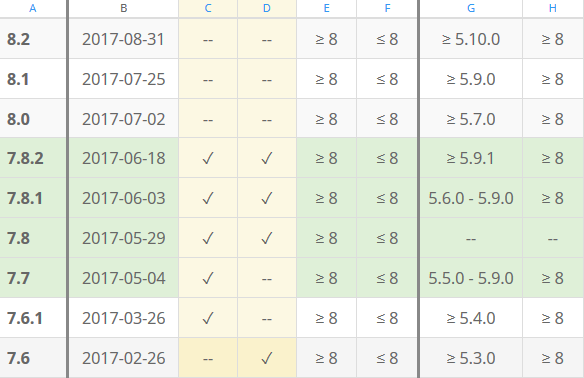
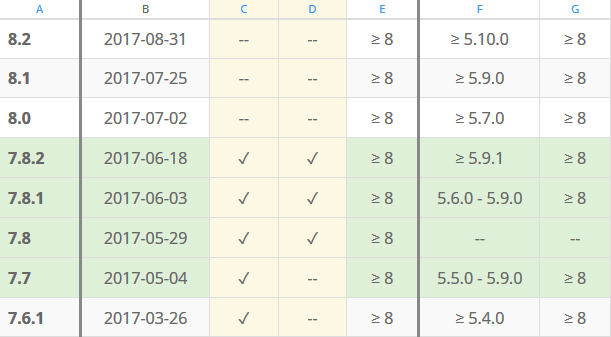
Update compatibility matrix up to Checkstyle 8.14

diff --git a/checkstyle-compatibility-matrix.html b/checkstyle-compatibility-matrix.html
@@ -20,7 +20,7 @@ to you. Should you notice an error, please create a pull request to correct it, 
 
 <p>You may <a href="{{ site.baseurl }}/2017/11/compatibility-matrix">apply highlighting</a> to parts of the table below.</p>
 
-<p><i>Latest major update: 2018-07-15</i></p>
+<p><i>Latest major update: 2018-11-14</i></p>
 </div>
 
 <table class="table table-striped table-header-rotated-jb table-hover csa-maxwide csa-hilite">
@@ -64,13 +64,13 @@ to you. Should you notice an error, please create a pull request to correct it, 
   </thead>
   <tbody>
     <tr>
-        <!--A--><th class="row-header">8.11</th>
-        <!--B--><td>2018-06-30</td>
-        <!--C--><td>--</td>
-        <!--D--><td>--</td>
+        <!--A--><th class="row-header">8.14</th>
+        <!--B--><td>2018-10-21</td>
+        <!--C--><td>✓</td>
+        <!--D--><td>✓</td>
         <!--E--><td>&nbsp;&nbsp;&ge;&nbsp;8&nbsp;&nbsp;</td>
-        <!--F--><td>&ge;&nbsp;5.20.0</td>
-        <!--G--><td>&ge;&nbsp;8</td>
+        <!--F--><td><span class="glyphicon glyphicon-hourglass" aria-hidden="true" title="upcoming"></span></td>
+        <!--G--><td><span class="glyphicon glyphicon-hourglass" aria-hidden="true" title="upcoming"></span></td>
         <!--H--><td><span class="glyphicon glyphicon-hourglass" aria-hidden="true" title="upcoming"></span></td>
         <!--I--><td>--</td>
         <!--J--><td>✓</td>
@@ -78,6 +78,60 @@ to you. Should you notice an error, please create a pull request to correct it, 
         <!--L--><td>✓</td>
         <!--M--><td>&ge;&nbsp;5.1.0</td>
         <!--N--><td><span class="glyphicon glyphicon-hourglass" aria-hidden="true" title="upcoming"></span></td>
+        <!--O--><td>--</td>
+        <!--P--><td>--</td>
+    </tr>
+    <tr>
+        <!--A--><th class="row-header">8.13</th>
+        <!--B--><td>2018-10-04</td>
+        <!--C--><td>✓</td>
+        <!--D--><td>✓</td>
+        <!--E--><td>&nbsp;&nbsp;&ge;&nbsp;8&nbsp;&nbsp;</td>
+        <!--F--><td>&ge;&nbsp;5.23.0</td>
+        <!--G--><td>&ge;&nbsp;8</td>
+        <!--H--><td><span class="glyphicon glyphicon-hourglass" aria-hidden="true" title="upcoming"></span></td>
+        <!--I--><td>--</td>
+        <!--J--><td>✓</td>
+        <!--K--><td>&nbsp;&ge;&nbsp;2.7&nbsp;</td>
+        <!--L--><td>✓</td>
+        <!--M--><td>&ge;&nbsp;5.1.0</td>
+        <!--N--><td>--</td>
+        <!--O--><td>--</td>
+        <!--P--><td>--</td>
+    </tr>
+    <tr>
+        <!--A--><th class="row-header">8.12</th>
+        <!--B--><td>2018-08-04</td>
+        <!--C--><td>✓</td>
+        <!--D--><td>✓</td>
+        <!--E--><td>&nbsp;&nbsp;&ge;&nbsp;8&nbsp;&nbsp;</td>
+        <!--F--><td>&ge;&nbsp;5.22.0</td>
+        <!--G--><td>&ge;&nbsp;8</td>
+        <!--H--><td>8.12.0</td>
+        <!--I--><td>--</td>
+        <!--J--><td>✓</td>
+        <!--K--><td>&nbsp;&ge;&nbsp;2.7&nbsp;</td>
+        <!--L--><td>5.0.0</td>
+        <!--M--><td>&ge;&nbsp;5.1.0</td>
+        <!--N--><td>1.32.0</td>
+        <!--O--><td>--</td>
+        <!--P--><td>--</td>
+    </tr>
+    <tr>
+        <!--A--><th class="row-header">8.11</th>
+        <!--B--><td>2018-06-30</td>
+        <!--C--><td>--</td>
+        <!--D--><td>--</td>
+        <!--E--><td>&nbsp;&nbsp;&ge;&nbsp;8&nbsp;&nbsp;</td>
+        <!--F--><td>&ge;&nbsp;5.20.0</td>
+        <!--G--><td>&ge;&nbsp;8</td>
+        <!--H--><td>8.11.0</td>
+        <!--I--><td>--</td>
+        <!--J--><td>✓</td>
+        <!--K--><td>&nbsp;&ge;&nbsp;2.7&nbsp;</td>
+        <!--L--><td>✓</td>
+        <!--M--><td>&ge;&nbsp;5.1.0</td>
+        <!--N--><td>1.31.0</td>
         <!--O--><td>4.11</td>
         <!--P--><td>&ge;&nbsp;5.6.6</td>
     </tr>
@@ -89,7 +143,7 @@ to you. Should you notice an error, please create a pull request to correct it, 
         <!--E--><td>&nbsp;&nbsp;&ge;&nbsp;8&nbsp;&nbsp;</td>
         <!--F--><td>&ge;&nbsp;5.20.0</td>
         <!--G--><td>&ge;&nbsp;8</td>
-        <!--H--><td>--</td>
+        <!--H--><td>8.10.1</td>
         <!--I--><td>--</td>
         <!--J--><td>✓</td>
         <!--K--><td>&nbsp;&ge;&nbsp;2.7&nbsp;</td>
@@ -579,7 +633,7 @@ to you. Should you notice an error, please create a pull request to correct it, 
         <!--I--><td>--</td>
         <!--J--><td>✓</td>
         <!--K--><td>&nbsp;&ge;&nbsp;2.7&nbsp;</td>
-        <!--L--><td>3.3&nbsp;- 4.8.1</td>
+        <!--L--><td>3.3&nbsp;- 4.10.2</td>
         <!--M--><td>&ge;&nbsp;2.0.0 <span class="csa-small">(java7)</span></td>
         <!--N--><td>1.19.0&nbsp;- 1.22.0</td>
         <!--O--><td>--</td>

diff --git a/_posts/2017-11-02-compatibility-matrix.md b/_posts/2017-11-02-compatibility-matrix.md
@@ -21,26 +21,26 @@ A more complex example would be this one:
 
     /checkstyle-compatibility-matrix.html?hl=7.8.2-7.7[g];c-d
 
-resulting in multiple rows and columns to be highlighed in differing colors:
+resulting in multiple rows and columns to be highlighted in differing colors:
 
 <div class="csa-largeImageWrapper">
-<img src="{{ site.baseurl }}/images/comp-matrix-hilite.png" alt="Highlight example" width="584" height="378" />
+<img src="{{ site.baseurl }}/images/comp-matrix-hilite.png" alt="Highlight example" width="611" height="337" />
 </div>
 
 {:.table .table-striped .csa-bordered-table}
 | Type   | Syntax  | Range       |
 |--------|---------|-------------|
 | Row    | `8.4`   | `8.4-8.0`   |
-| Column | `C`     | `C-F`       |
-| Cell   | `C8.4`  | `C8.4-F8.0` |
+| Column | `C`     | `C-G`       |
+| Cell   | `C8.4`  | `C8.4-G8.0` |
 | Multi  | `C;8.4` | `C;8.4-8.0` |
 
 The type *Multi* allows a semicolon-separated list of any of the above (row, column, or cell; either single or ranged).
 
 When specifying a range, take care that
 
-- both elements of the range are of the same type (e.g. `C-F` is good, `8.4-F` is mixed up), and
-- the element that comes first in the table comes first in the range (e.g. `C-F` or `8.4-8.0` are good, but `F-C` or `8.0-8.4` are wrong).
+- both elements of the range are of the same type (e.g. `C-G` is good, `8.4-G` is mixed up), and
+- the element that comes first in the table comes first in the range (e.g. `C-G` or `8.4-8.0` are good, but `G-C` or `8.0-8.4` are wrong).
 
 The color of each row, column, or cell (range) may be selected by appending the color in square brackets.
 
